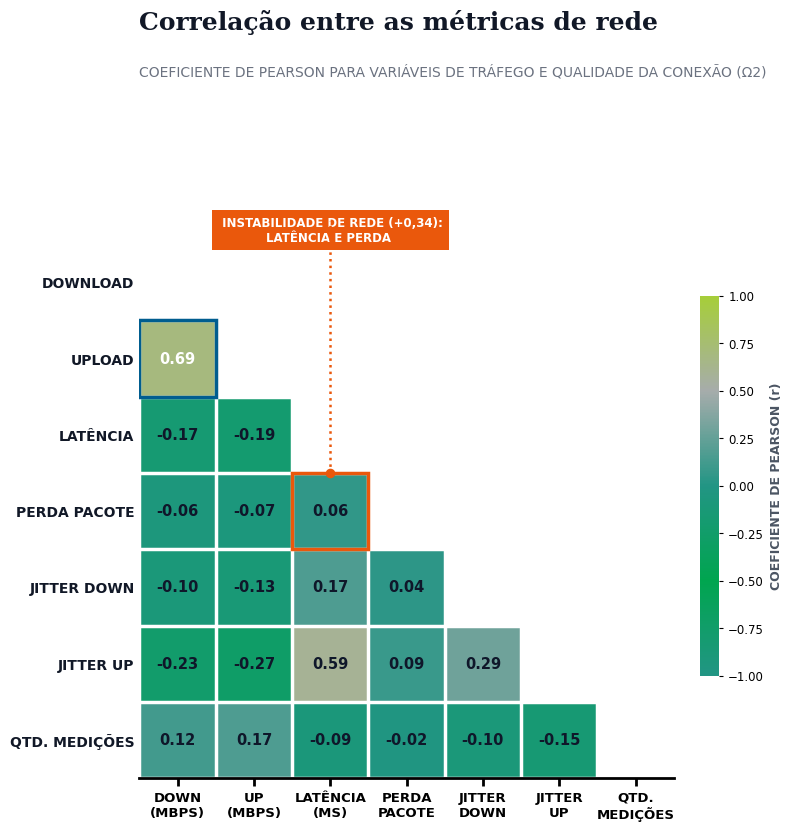
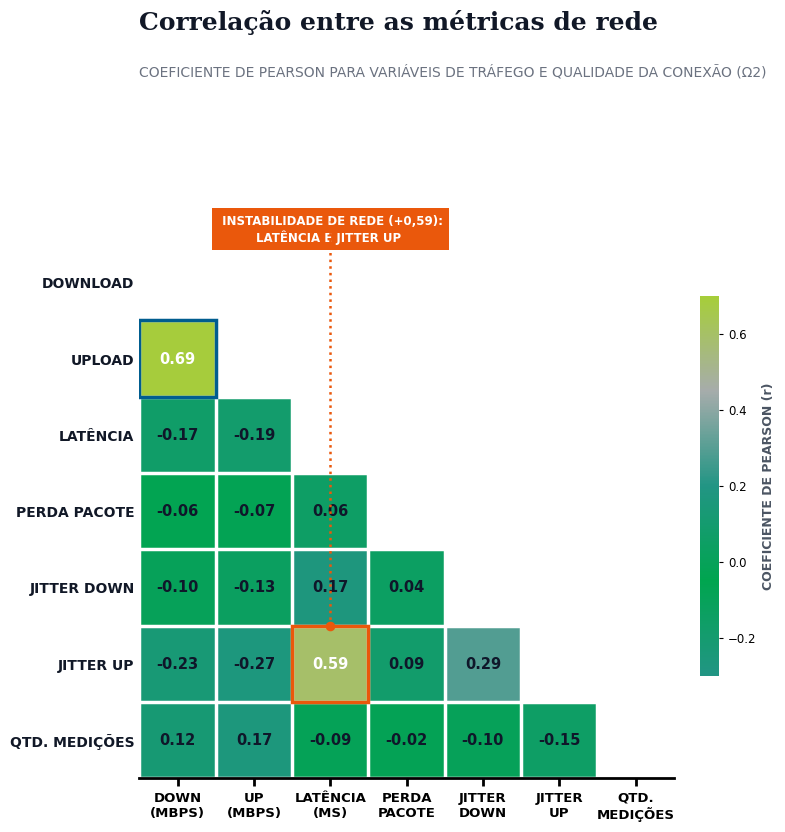
docs: remove emojis and scikit-learn, adjust sample space definition, and embed figures directly in body

diff --git a/README.md b/README.md
@@ -1,62 +1,92 @@
-# 🏫 EduConectada: Diagnóstico Estatístico da Conectividade nas Escolas Públicas Brasileiras
+# EduConectada: Diagnostico Estatistico da Conectividade nas Escolas Publicas Brasileiras
 
-> 🌐 **Language / Idioma:** [English](README_en.md) • **Português**
+> **Language / Idioma:** [English](README_en.md) | **Portugues**
 
-![Python](https://img.shields.io/badge/Python-Pandas_%7C_Seaborn_%7C_Scikit--Learn-3776AB?logo=python&logoColor=white)
-![Statistics](https://img.shields.io/badge/Estatística-Probabilidade_%7C_Inferência_%7C_TCL-8A2BE2)
+![Python](https://img.shields.io/badge/Python-Pandas_%7C_Seaborn-3776AB?logo=python&logoColor=white)
+![Statistics](https://img.shields.io/badge/Estatistica-Probabilidade_%7C_Inferencia_%7C_TCL-8A2BE2)
 ![Dataset](https://img.shields.io/badge/Escolas_Analisadas-137.914-success)
 
-> **Resumo Executivo:** Este projeto analisa a infraestrutura real de internet nas escolas públicas de educação básica do Brasil a partir da base **EduConectada (137.914 escolas)** e das medições ativas de tráfego do **SIMET (~77.000 escolas)**. Combinando modelagem de espaços amostrais ($\Omega_1$ e $\Omega_2$), probabilidade condicional, funções de distribuição acumulada, preparação para Machine Learning (`StandardScaler` vs. `MinMaxScaler`) e simulação do **Teorema Central do Limite**, o estudo responde a uma pergunta crítica de política pública: **a velocidade entregue às escolas é suficiente para o número de alunos matriculados?**
+> **Resumo Executivo:** Este projeto analisa a infraestrutura de internet nas escolas publicas de educacao basica do Brasil a partir da base **EduConectada (137.914 escolas)** e das medicoes ativas de trafego do medidor **SIMET (76.359 escolas com medicoes validas)**. Combinando analise exploratoria, espacos amostrais (Omega 1 e Omega 2), probabilidade condicional, funcoes de distribuicao acumulada e simulacao do **Teorema Central do Limite**, o estudo responde a questoes criticas de infraestrutura: **existe diferenca na qualidade de conexao entre escolas urbanas e rurais, e a velocidade entregue atende a demanda estimada para os estudantes?**
 
 ---
 
-## 📊 Preview Visual das Análises
+## 1. Contexto e Delimitacao dos Espacos Amostrais (Omega 1 vs. Omega 2)
 
-| Distribuição de Velocidade (Urbana vs. Rural) | Paradoxo de Atendimento (Probabilidade Condicional) |
-| :---: | :---: |
-| ![Urbano vs Rural](./reports/figures/fig_05_velocidade_urbana_vs_rural.png) | ![Paradoxo Atendimento](./reports/figures/fig_07_paradoxo_atendimento_urbano_rural.png) |
+Ao auditar as **137.914 escolas** da base (comparadas com o Censo Escolar), constatou-se que variaveis cadastrais (localizacao, rede, porte e matriculas) possuem cobertura quase integral, enquanto as medicoes empíricas de rede estao disponiveis apenas para um subconjunto de unidades. 
 
-| Relação Download & Upload (Tráfego TCP) | Distribuição Acumulada por Porte Escolar |
-| :---: | :---: |
-| ![Download vs Upload](./reports/figures/fig_03_relacao_download_upload.png) | ![Porte Escolas](./reports/figures/fig_08_porte_escolas_probabilidade_acumulada.png) |
+Para viabilizar a analise do proprio objeto de estudo — a conexao real e a qualidade do trafego de internet —, foram estruturados dois espacos amostrais:
 
----
+- **Omega 1 (137.914 escolas):** Universo cadastral completo para analise de infraestrutura fisica, distribuicao geografica e presenca declarada de internet (`indicador_internet`).
+- **Omega 2 (76.359 escolas):** Subconjunto de escolas com internet declarada e medicao valida de desempenho TCP via SIMET (`media_tcp_download`, `media_tcp_upload`, `media_latencia`, `media_jitter_upload`). 
 
-## 1. Contexto e Definição dos Espaços Amostrais ($\Omega_1$ vs. $\Omega_2$)
+> **Nota metodologica sobre vies de selecao:** A delimitacao de Omega 2 nao teve como objetivo eliminar vieses, uma vez que a presenca de medidores ativos pode concentrar escolas com melhor infraestrutura preexistente. A segmentacao foi desenhada para permitir investigar empiricamente o comportamento do trafego de dados onde ha medicao real.
 
-Ao auditar as **137.914 escolas** da base (comparadas frente às ~136,7 mil escolas públicas ativas no Censo Escolar 2025), observou-se que variáveis cadastrais (localização, rede, porte, matrículas e laboratório de informática) possuem cobertura quase integral, enquanto as medições empíricas de rede pelo medidor **SIMET** estão disponíveis para um subconjunto específico. Para evitar viés analítico, foram estruturados dois espaços amostrais:
+![Vies de Selecao e Representatividade](./reports/figures/fig_09_vies_selecao_omega2.png)
 
-- **$\Omega_1$ (`137.914 escolas`):** Universo completo da base cadastral para análise de infraestrutura física, distribuição regional e presença declarada de internet (`indicador_internet`).
-- **$\Omega_2$ (`~77.000 escolas`):** Subconjunto de escolas com conexão ativa e medição real de desempenho TCP pelo SIMET (`media_tcp_download`, `media_tcp_upload`, `media_latencia`, `media_jitter_upload`).
+![Perfil das Escolas por Porte e Localizacao](./reports/figures/fig_01_perfil_escolas_porte_localizacao.png)
 
 ---
 
-## 2. Principais Descobertas Estatísticas
+## 2. Principais Descobertas Estatisticas
 
-### A. Assimetria Positiva e o Perigo das Médias Isoladas
-- As distribuições de `media_tcp_download` e `media_tcp_upload` apresentam **forte assimetria positiva (cauda longa à direita)** (`fig_04_distribuicao_cauda_longa_download.png`). Poucas escolas com links de altíssima velocidade puxam a média para cima, escondendo a realidade da maioria das unidades escolares.
-- Forte correlação positiva entre download e upload ($r = 0.69$), formando um comportamento em "leque" diagonal (`fig_03_relacao_download_upload.png`), e alta associação entre latência e jitter (`fig_02_matriz_correlacao_metricas.png`).
+### A. Assimetria Positiva e o Comportamento da Velocidade
+
+As distribuicoes de download e upload apresentam **forte assimetria positiva (cauda longa a direita)**. Poucas escolas com links de altissima velocidade puxam a media aritmetica para cima, tornando a **mediana** o parametro estatistico mais representativo da escola tipica brasileira.
+
+![Distribuicao de Download com Cauda Longa](./reports/figures/fig_04_distribuicao_cauda_longa_download.png)
+
+Alem disso, observa-se forte associacao linear positiva entre download e upload ($r = 0.69$), com dispersao em leque, e acentuada correlacao entre latencia e jitter.
+
+![Relacao Download e Upload](./reports/figures/fig_03_relacao_download_upload.png)
+
+![Matriz de Correlacao das Metricas de Rede](./reports/figures/fig_02_matriz_correlacao_metricas.png)
+
+---
 
 ### B. O Paradoxo Urbano vs. Rural (Probabilidade Condicional)
-1. **Velocidade Bruta (Mediana):** As escolas **urbanas** possuem uma mediana de velocidade de download aproximadamente **o dobro** da mediana das escolas **rurais** (`fig_05_velocidade_urbana_vs_rural.png`).
-2. **Atendimento à Necessidade por Aluno (`diferenca_download`):** Quando cruzamos a velocidade entregue com a `velocidade_download_necessaria` (estimada para que 50% dos alunos assistam a um vídeo simultaneamente, proporcional ao porte de matrículas da escola):
-   - A grande maioria das escolas brasileiras **não atende** à demanda necessária (`fig_06_velocidade_necessaria_vs_entregue.png`).
-   - Usando **probabilidade condicional** ($P(\text{Atende} \mid \text{Localização})$), descobrimos um achado contraintuitivo: **30,17% das escolas rurais atendem à necessidade estimada, contra apenas 21,64% das escolas urbanas** (`fig_07_paradoxo_atendimento_urbano_rural.png`).
-   - **Explicação (Função de Repartição de Porte):** Embora as escolas urbanas tenham links maiores em Mbps absolutos, elas concentram portes muito maiores de alunos matriculados, fazendo com que a largura de banda por estudante seja insuficiente com maior frequência do que nas pequenas escolas rurais (`fig_08_porte_escolas_probabilidade_acumulada.png`).
 
-### C. Preparação para Machine Learning e Teorema Central do Limite
-- **Escalonamento de Variáveis:** Comparação prática entre `StandardScaler` ($\mu = 0, \sigma = 1$) e `MinMaxScaler` ($[0, 1]$) sobre variáveis de escalas díspares (matrículas vs. Mbps), demonstrando a preservação da forma da distribuição original (`cell_103_plot_14.png`).
-- **Simulação de Amostragem (`media_tcp_download`):** Demonstração empírica da convergência das médias amostrais para uma distribuição normal conforme o tamanho amostral $n$ cresce ($n=1 \rightarrow n=30 \rightarrow n=100 \rightarrow n=500$), reduzindo a variância amostral conforme previsto pelo Teorema Central do Limite (`cell_110_plot_21.png`).
+#### 1. Velocidade Bruta (Mbps)
+Em termos nominais brutos, as escolas **urbanas** registram uma velocidade mediana de download equivalente ao **dobro** da mediana observada nas escolas **rurais**.
+
+![Velocidade Urbana vs Rural](./reports/figures/fig_05_velocidade_urbana_vs_rural.png)
+
+#### 2. Atendimento a Demanda Estimada por Estudante
+Cruzando a velocidade medida com a velocidade recomendada (estimada para suportar transmissao simultanea de video para 50% dos alunos matriculados, proporcional ao porte da escola), **76,4% das escolas analisadas nao atendem a demanda minima estimada**.
+
+![Velocidade Necessaria vs Entregue](./reports/figures/fig_06_velocidade_necessaria_vs_entregue.png)
+
+#### 3. O Paradoxo de Atendimento
+Ao calcular a **probabilidade condicional** de atendimento dentro de cada regiao:
+- **P(Atende | Rural) = 30,17%**
+- **P(Atende | Urbano) = 21,64%**
+
+A probabilidade de uma escola rural ter banda suficiente para atender a sua comunidade escolar e superior a de uma escola urbana.
+
+![Paradoxo de Atendimento Urbano vs Rural](./reports/figures/fig_07_paradoxo_atendimento_urbano_rural.png)
+
+#### Por que isso acontece?
+A explicacao reside na distribuicao acumulada de porte escolar. Escolas urbanas concentram volumes substancialmente maiores de matriculas. Mesmo recebendo links com velocidade nominal maior, a divisao da banda pela quantidade de estudantes resulta em deficit per capita com frequencia maior do que nas escolas rurais, que possuem contingentes reduzidos de alunos.
+
+![Distribuicao Acumulada por Porte Escolar](./reports/figures/fig_08_porte_escolas_probabilidade_acumulada.png)
 
 ---
 
-## 3. Estrutura do Repositório
+## 3. Teorema Central do Limite (Simulacao de Amostragem)
+
+Utilizando a variavel `media_tcp_download`, foi realizada a simulacao computacional de convergencia das medias amostrais para tamanhos crescentes ($n = 1 \rightarrow n = 30 \rightarrow n = 100 \rightarrow n = 500$). 
+
+A simulacao evidencia empiricamente que, a medida que o tamanho da amostra aumenta, a distribuicao das medias amostrais converge para o formato gaussiano (normal), reduzindo a variancia na razao direta do desvio padrao dividido pela raiz de $n$, exatamente como postulado pelo Teorema Central do Limite.
+
+---
+
+## 4. Estrutura do Repositorio
 
 ```text
 educonectada-school-connectivity/
-├── README.md                            # Síntese executiva, metodologia e achados principais
+├── README.md                            # Documentacao metodologica e analitica (Portugues)
+├── README_en.md                         # Methodology and analytical findings (English)
 ├── notebooks/
-│   └── educonectada.ipynb               # Notebook completo em Python (EDA, Probabilidade, Normalização, TCL)
+│   └── educonectada.ipynb               # Notebook Python com todas as analises e simulacoes
 └── reports/
-    └── figures/                         # 22 gráficos e visualizações extraídos do estudo
+    └── figures/                         # Graficos e visualizacoes do estudo em alta resolucao
 ```

diff --git a/README_en.md b/README_en.md
@@ -1,63 +1,92 @@
-# 🏫 EduConectada: Statistical Assessment of Internet Connectivity in Brazilian Public Schools
+# EduConectada: Statistical Diagnostics of Brazilian Public School Connectivity
 
-> 🌐 **Language / Idioma:** **English** • [Português](README.md)
+> **Language / Idioma:** **English** | [Portugues](README.md)
 
-![Python](https://img.shields.io/badge/Python-Pandas_%7C_Seaborn_%7C_Scikit--Learn-3776AB?logo=python&logoColor=white)
+![Python](https://img.shields.io/badge/Python-Pandas_%7C_Seaborn-3776AB?logo=python&logoColor=white)
 ![Statistics](https://img.shields.io/badge/Statistics-Probability_%7C_Inference_%7C_CLT-8A2BE2)
 ![Dataset](https://img.shields.io/badge/Analyzed_Schools-137,914-success)
 
-> **Executive Summary:** This study evaluates real-world internet connectivity across Brazil's public basic education schools, drawing from the nationwide **EduConectada registry (137,914 schools)** and active network telemetry from **SIMET (~77,000 schools)**. Combining sample space stratification ($\Omega_1$ vs. $\Omega_2$), conditional probability modeling, cumulative distribution functions, machine learning feature scaling (`StandardScaler` vs. `MinMaxScaler`), and **Central Limit Theorem (CLT)** empirical simulation, this research investigates a pivotal public policy question: **is the measured bandwidth delivered to public schools sufficient to meet per-student educational demand?**
+> **Executive Summary:** This project evaluates internet connectivity across Brazilian public schools using nationwide data from **EduConectada (137,914 schools)** combined with empirical telemetry from **SIMET (76,359 schools with valid active tests)**. Leveraging exploratory data analysis, sample space stratification (Omega 1 and Omega 2), conditional probability, cumulative distribution functions, and **Central Limit Theorem** simulations, this study investigates: **are there disparities between urban and rural connectivity, and does delivered throughput satisfy estimated per-student demand?**
 
 ---
 
-## 📊 Visual Analysis Preview
+## 1. Context and Sample Space Stratification (Omega 1 vs. Omega 2)
 
-| Bandwidth Distribution (Urban vs. Rural) | Fulfillment Paradox (Conditional Probability) |
-| :---: | :---: |
-| ![Urban vs Rural](./reports/figures/fig_05_velocidade_urbana_vs_rural.png) | ![Fulfillment Paradox](./reports/figures/fig_07_paradoxo_atendimento_urbano_rural.png) |
+Administrative records across the **137,914 schools** (benchmarkable to the National School Census) provide near-complete coverage for geographic location, administrative dependency, enrollment size, and computer labs, whereas physical network telemetry from SIMET is available for a measured subpopulation.
 
-| Download vs. Upload Dynamics (TCP Telemetry) | Cumulative Probability by School Size |
-| :---: | :---: |
-| ![Download vs Upload](./reports/figures/fig_03_relacao_download_upload.png) | ![School Size CDF](./reports/figures/fig_08_porte_escolas_probabilidade_acumulada.png) |
+To enable direct quantitative investigation of actual internet performance, two sample spaces were formalized:
 
----
+- **Omega 1 (137,914 schools):** Complete administrative universe for physical infrastructure, geographic spread, and declared internet connectivity (`indicador_internet`).
+- **Omega 2 (76,359 schools):** Subset with declared internet access and validated TCP telemetry via SIMET (`media_tcp_download`, `media_tcp_upload`, `media_latencia`, `media_jitter_upload`).
 
-## 1. Context & Sample Space Stratification ($\Omega_1$ vs. $\Omega_2$)
+> **Methodological note on selection bias:** The definition of Omega 2 was not designed to eliminate selection bias, as schools with active network telemetry may already possess comparatively better infrastructure. The segmentation was created to isolate and examine empirical network metrics where valid measurements exist.
 
-When auditing the **137,914 schools** in the registry (benchmarked against ~136,700 active public schools in the 2025 Basic Education Census), administrative variables (location, administrative network, enrollment size, computer labs) showed near-universal coverage, whereas empirical network measurements from the **SIMET** meter were available for an active subset. To eliminate analytical bias, two distinct sample spaces were defined:
+![Selection Bias and Representativeness](./reports/figures/fig_09_vies_selecao_omega2.png)
 
-- **$\Omega_1$ (`137,914 schools`):** Complete administrative universe for physical infrastructure, geographic distribution, and declared internet access (`indicador_internet`).
-- **$\Omega_2$ (`~77,000 schools`):** Subpopulation of connected schools with active TCP performance telemetry via SIMET (`media_tcp_download`, `media_tcp_upload`, `media_latencia`, `media_jitter_upload`).
+![School Profiles by Size and Location](./reports/figures/fig_01_perfil_escolas_porte_localizacao.png)
 
 ---
 
-## 2. Core Statistical Findings
+## 2. Key Statistical Findings
 
-### A. Positive Skewness & The Limitation of Unweighted Averages
-- Both `media_tcp_download` and `media_tcp_upload` exhibit **heavy right-skewed distributions (long right tails)** (`fig_04_distribuicao_cauda_longa_download.png`). A small fraction of schools equipped with high-capacity fiber links inflates the arithmetic mean, obscuring the bandwidth constraints faced by the median school.
-- Strong positive correlation between download and upload speed ($r = 0.69$), displaying diagonal heteroscedastic fan dispersion (`fig_03_relacao_download_upload.png`), alongside tight coupling between latency and jitter (`fig_02_matriz_correlacao_metricas.png`).
+### A. Positive Skewness and Bandwidth Distributions
+
+Both download and upload throughput display **pronounced positive skewness (heavy right tails)**. A small fraction of schools connected via high-speed fiber links pulls the arithmetic mean upward, establishing the **median** as the most reliable measure for the typical school.
+
+![Download Throughput Distribution](./reports/figures/fig_04_distribuicao_cauda_longa_download.png)
+
+Furthermore, empirical testing reveals strong linear association between download and upload ($r = 0.69$) exhibiting diagonal fan-shaped dispersion, alongside strong correlation between latency and jitter.
+
+![Download vs Upload Dynamics](./reports/figures/fig_03_relacao_download_upload.png)
+
+![Network Metrics Correlation Matrix](./reports/figures/fig_02_matriz_correlacao_metricas.png)
+
+---
 
 ### B. The Urban-Rural Paradox (Conditional Probability)
-1. **Raw Bandwidth (Median):** Urban schools register a median download speed roughly **twice as high** as rural schools (`fig_05_velocidade_urbana_vs_rural.png`).
-2. **Per-Student Demand Fulfillment (`diferenca_download`):** When contrasting delivered throughput with `velocidade_download_necessaria` (modeled to allow 50% of enrolled students to stream concurrent instructional video):
-   - The overwhelming majority of Brazilian schools **fail to meet** estimated pedagogical demand (`fig_06_velocidade_necessaria_vs_entregue.png`).
-   - Evaluating conditional probability ($P(\text{Sufficient} \mid \text{Location})$) uncovers a counterintuitive finding: **30.17% of rural schools meet estimated demand, compared to only 21.64% of urban schools** (`fig_07_paradoxo_atendimento_urbano_rural.png`).
-   - **Underlying Mechanism:** Although urban schools receive higher aggregate Mbps links, they host substantially larger student bodies, resulting in acute per-student bandwidth deficits that occur more frequently than in smaller, sparsely enrolled rural schools (`fig_08_porte_escolas_probabilidade_acumulada.png`).
 
-### C. Machine Learning Preprocessing & Central Limit Theorem
-- **Feature Scaling:** Practical comparison between `StandardScaler` ($\mu = 0, \sigma = 1$) and `MinMaxScaler` ($[0, 1]$) across widely disparate scales (student enrollment counts vs. Mbps throughput), preserving the underlying distribution geometry (`cell_103_plot_14.png`).
-- **Empirical Sampling Simulation (`media_tcp_download`):** Visualized sample mean convergence to a normal distribution as sample size $n$ increases ($n=1 \rightarrow n=30 \rightarrow n=100 \rightarrow n=500$), demonstrating variance reduction as predicted by the Central Limit Theorem (`cell_110_plot_21.png`).
+#### 1. Nominal Bandwidth (Mbps)
+In nominal terms, **urban** schools achieve a median download throughput roughly **double** that of **rural** schools.
+
+![Urban vs Rural Bandwidth](./reports/figures/fig_05_velocidade_urbana_vs_rural.png)
+
+#### 2. Per-Student Demand Fulfillment
+When comparing measured throughput against recommended capacity (benchmarked to allow simultaneous video streaming for 50% of enrolled students), **76.4% of evaluated schools fail to meet minimum estimated demand**.
+
+![Delivered vs Required Bandwidth](./reports/figures/fig_06_velocidade_necessaria_vs_entregue.png)
+
+#### 3. The Fulfillment Paradox
+Calculating **conditional probability** for demand satisfaction by geographic location:
+- **P(Sufficient | Rural) = 30.17%**
+- **P(Sufficient | Urban) = 21.64%**
+
+A rural public school demonstrates a higher probability of satisfying its student bandwidth demand than an urban school.
+
+![Urban vs Rural Demand Fulfillment Paradox](./reports/figures/fig_07_paradoxo_atendimento_urbano_rural.png)
+
+#### Underlying Mechanism
+This counterintuitive outcome stems from cumulative enrollment distributions. Urban schools concentrate substantially larger student bodies. Although receiving higher nominal throughput, distributing bandwidth across extensive student cohorts produces recurring deficits, whereas smaller rural schools experience less severe per-student constraints.
+
+![Cumulative Probability by School Size](./reports/figures/fig_08_porte_escolas_probabilidade_acumulada.png)
 
 ---
 
-## 3. Repository Structure
+## 3. Central Limit Theorem (Sampling Simulation)
+
+Using the `media_tcp_download` metric, sampling convergence was simulated across expanding sample sizes ($n = 1 \rightarrow n = 30 \rightarrow n = 100 \rightarrow n = 500$). 
+
+The simulation demonstrates that as sample size increases, the distribution of sample means converges to a Gaussian (normal) distribution, attenuating variance inversely proportional to the square root of $n$, as proven by the Central Limit Theorem.
+
+---
+
+## 4. Repository Structure
 
 ```text
 educonectada-school-connectivity/
-├── README.md                            # Executive overview, methodology & core findings (Português)
-├── README_en.md                         # Executive overview, methodology & core findings (English)
+├── README.md                            # Methodology and analytical findings (Portuguese)
+├── README_en.md                         # Methodology and analytical findings (English)
 ├── notebooks/
-│   └── educonectada.ipynb               # End-to-end Python notebook (EDA, Probability, Scaling, CLT)
+│   └── educonectada.ipynb               # Python notebook with data pipeline and statistical tests
 └── reports/
-    └── figures/                         # 22 analytical figures and diagnostic plots
+    └── figures/                         # High-resolution figures and presentation visual assets
 ```
